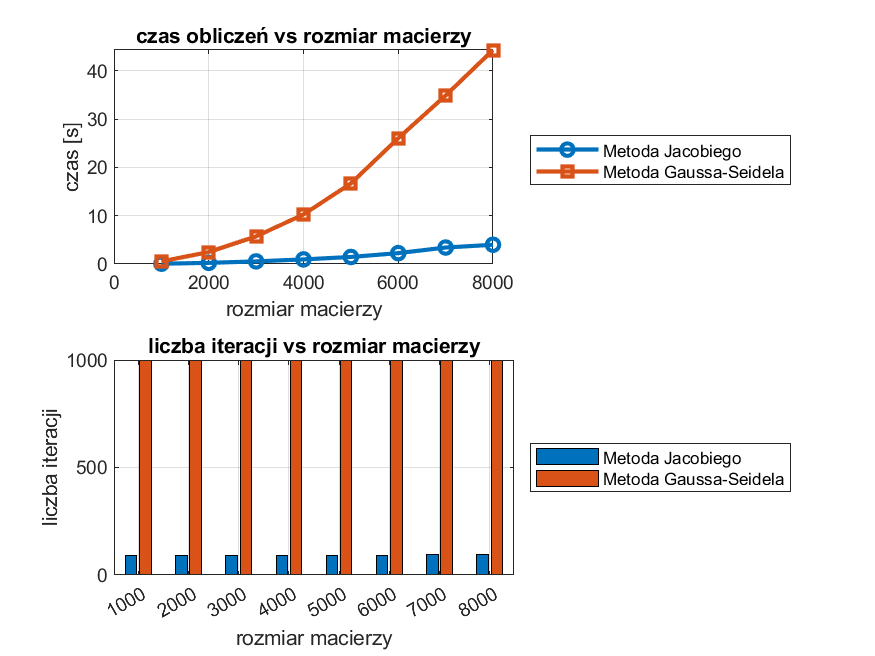
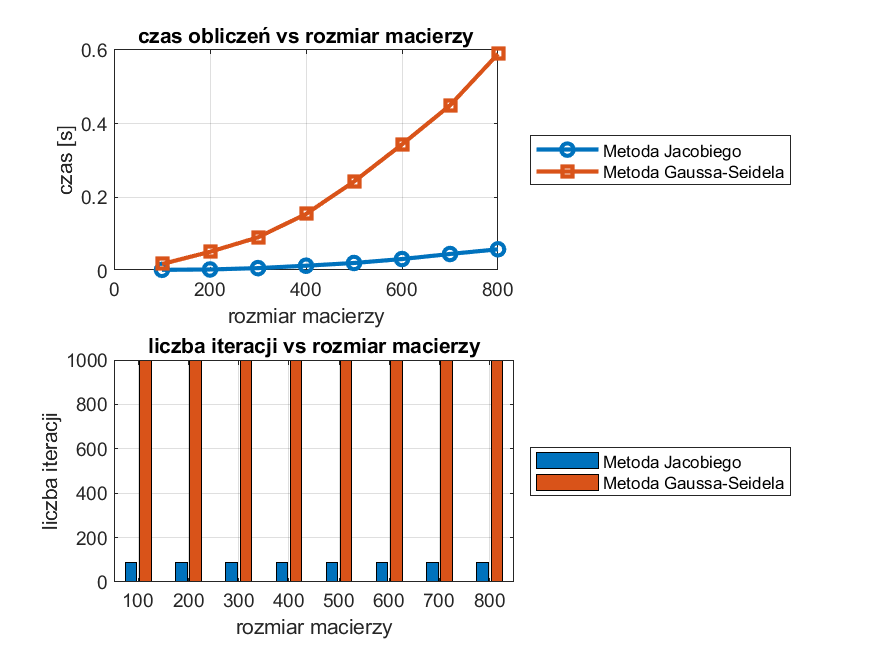
zadanie 6

diff --git a/lab3.m b/lab3.m
@@ -1,5 +1,5 @@
 N1 = 100;
-[A,b,x,time_direct,err_norm,index_number] = solve_direct(N1);
+[A,b,x,time_direct,err_norm,index_number] = solve_direct(N1,[],[]);
 
 N = 1000:1000:8000;
 n = length(N);
@@ -9,11 +9,9 @@ time_Gauss_Seidel = ones(1, n);
 iterations_Jacobi = 40*ones(1,n);
 iterations_Gauss_Seidel = 40*ones(1,n);
 for i = 1:n
-    [~,~,~,vtime_direct(i),~,~] = solve_direct(N(i));
-    [~,~,~,~,~,~,time_Jacobi(i),iterations_Jacobi(i), ~] = solve_Jacobi(N(i));
-    [~,~,~,~,~,~,time_Gauss_Seidel(i),iterations_Gauss_Seidel(i), ~] = solve_Gauss_Seidel(N(i));
+    [~,~,~,vtime_direct(i),~,~] = solve_direct(N(i),[],[]);
+    [~,~,~,~,~,~,time_Jacobi(i),iterations_Jacobi(i), ~,~] = solve_Jacobi(N(i),[],[]);
+    [~,~,~,~,~,~,time_Gauss_Seidel(i),iterations_Gauss_Seidel(i), ~, ~] = solve_Gauss_Seidel(N(i),[],[]);
 end
 plot_direct(N,vtime_direct);
 plot_problem_5(N,time_Jacobi, time_Gauss_Seidel, iterations_Jacobi, iterations_Gauss_Seidel);
-N = 100;
-[A,b,M,bm,x,err_norm,time,iterations,index_number] = solve_Jacobi(N);

diff --git a/solve_Gauss_Seidel.m b/solve_Gauss_Seidel.m
@@ -1,4 +1,4 @@
-function [A,b,M,bm,x,err_norm,time,iterations,index_number] = solve_Gauss_Seidel(N)
+function [A,b,M,bm,x,err_norm,time,iterations,index_number, residuums] = solve_Gauss_Seidel(N, A ,b)
 % A - macierz rzadka z równania macierzowego A * x = b
 % b - wektor prawej strony równania macierzowego A * x = b
 % M - macierz pomocnicza opisana w instrukcji do Laboratorium 3 – sprawdź wzór (7) w instrukcji, który definiuje M jako M_{GS}
@@ -10,7 +10,12 @@ function [A,b,M,bm,x,err_norm,time,iterations,index_number] = solve_Gauss_Seidel
 % index_number - Twój numer indeksu
 index_number = 193552;
 L1 = 2;
-[A,b] = generate_matrix(N, L1);
+
+if isempty(A) && isempty(b)
+    [A,b] = generate_matrix(N,L1);
+end
+
+
 
 
 L = tril(A, -1);

diff --git a/solve_Jacobi.m b/solve_Jacobi.m
@@ -1,4 +1,4 @@
-function [A,b,M,bm,x,err_norm,time,iterations,index_number] = solve_Jacobi(N)
+function [A,b,M,bm,x,err_norm,time,iterations,index_number, residuums] = solve_Jacobi(N, A, b)
 % A - macierz z równania macierzowego A * x = b
 % b - wektor prawej strony równania macierzowego A * x = b
 % M - macierz pomocnicza opisana w instrukcji do Laboratorium 3 – sprawdź wzór (5) w instrukcji, który definiuje M jako M_J.
@@ -11,7 +11,9 @@ function [A,b,M,bm,x,err_norm,time,iterations,index_number] = solve_Jacobi(N)
 index_number = 193552;
 L1 = 2;
 
-[A,b] = generate_matrix(N,L1);
+if isempty(A) && isempty(b)
+    [A,b] = generate_matrix(N,L1);
+end
 
 L = tril(A, -1);
 U = triu(A, 1);

diff --git a/solve_direct.m b/solve_direct.m
@@ -1,4 +1,4 @@
-function [A,b,x,time_direct,err_norm,index_number] = solve_direct(N)
+function [A,b,x,time_direct,err_norm,index_number] = solve_direct(N, A, b)
 % A - macierz z równania macierzowego A * x = b
 % b - wektor prawej strony równania macierzowego A * x = b
 % x - rozwiązanie równania macierzowego
@@ -7,7 +7,11 @@ function [A,b,x,time_direct,err_norm,index_number] = solve_direct(N)
 % index_number - Twój numer indeksu
 index_number = 193552;
 L1 = 2;
-[A, b] = generate_matrix(N,L1);
+
+if isempty(A) && isempty(b)
+    [A,b] = generate_matrix(N,L1);
+end
+
 
 tic
 x = A\b;
